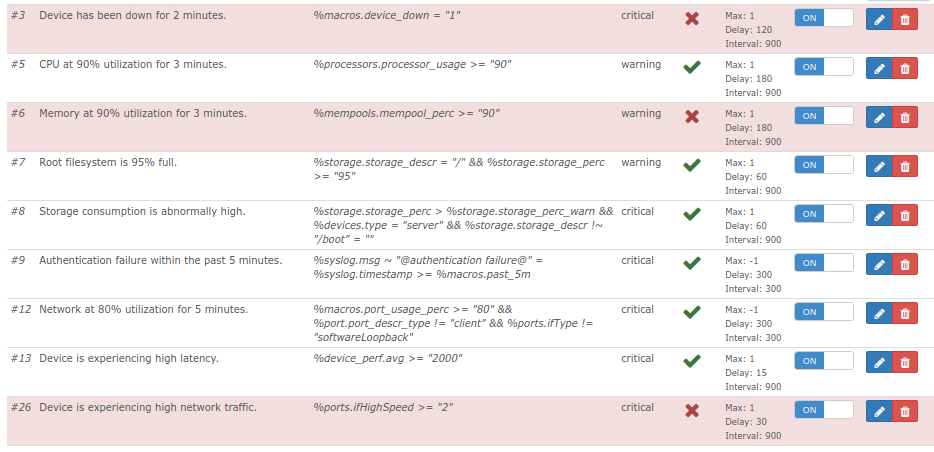
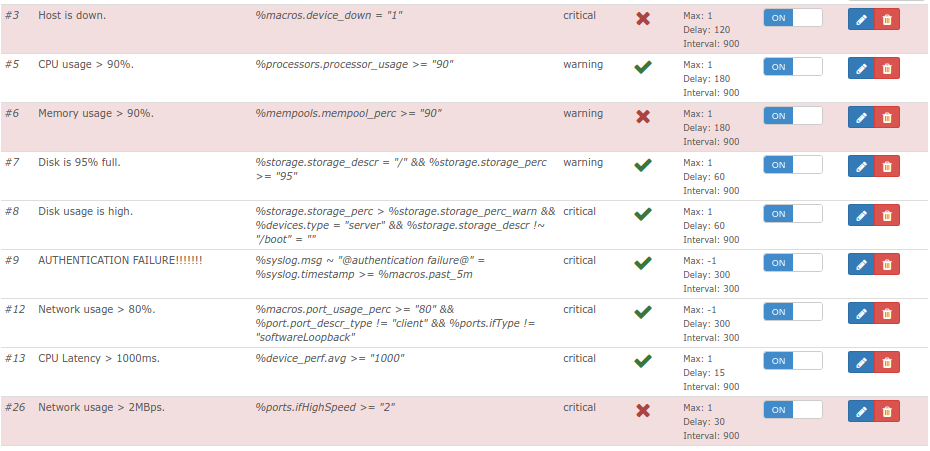
Added alert example and template.

diff --git a/README.md b/README.md
@@ -2,6 +2,14 @@
 
 Collection of my custom alerts. Defined here since examples are scarce on the internet and I did not want to recreate them.
 
+## Alert Example 
+
+![Alt text](https://raw.githubusercontent.com/zimmertr/Librenms-Example-Alerts/master/alert_example.png "Alert example in LibreNMS")
+
 ## Included alerts 
 
 ![Alt text](https://raw.githubusercontent.com/zimmertr/Librenms-Example-Alerts/master/alerts.png "Alerts in LibreNMS")
+
+## Alert Template
+
+![Alt text](https://raw.githubusercontent.com/zimmertr/Librenms-Example-Alerts/master/alert_template.png "Alert template in LibeNMS")
